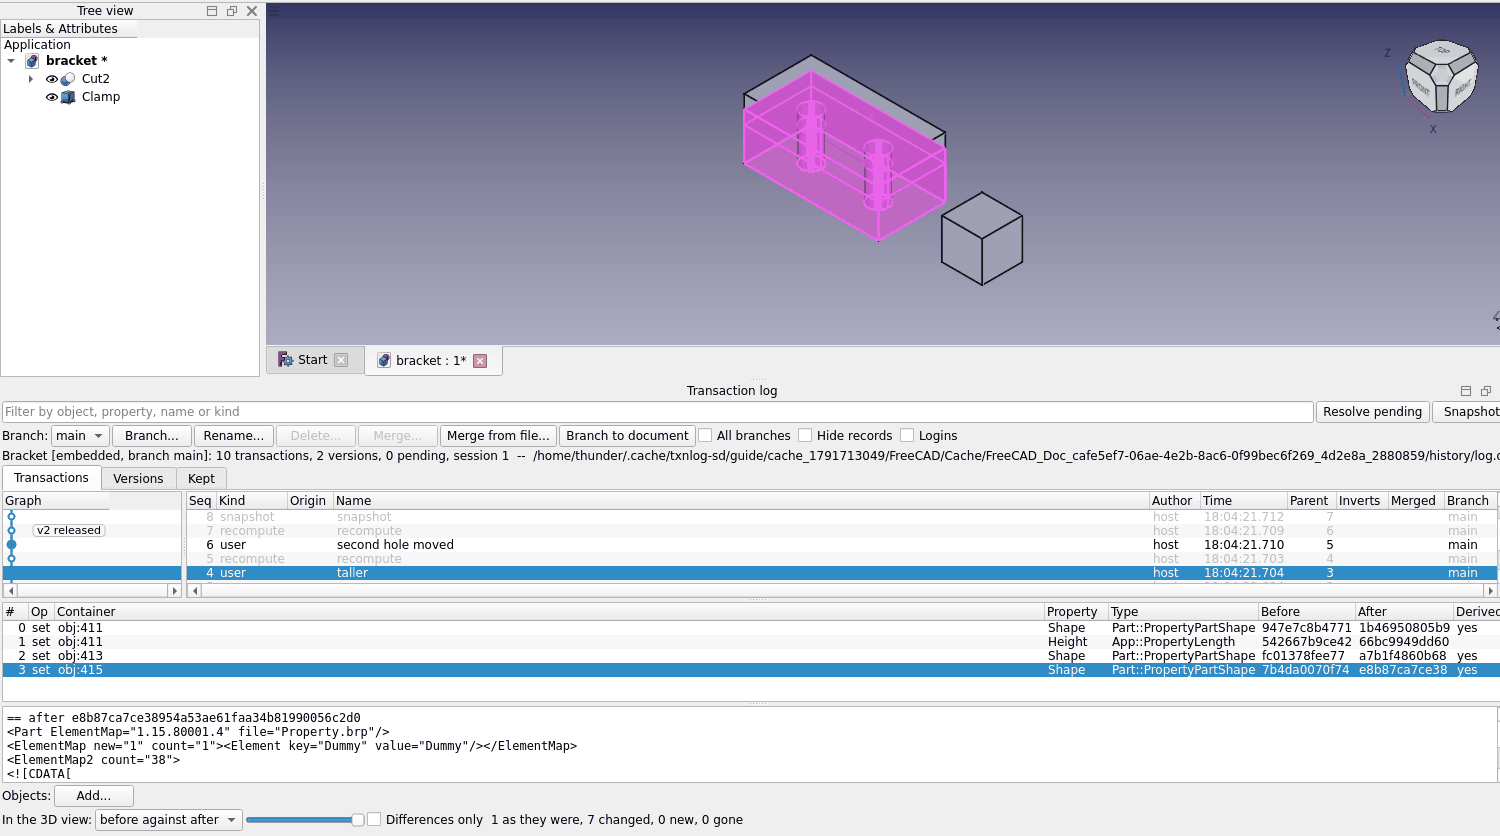
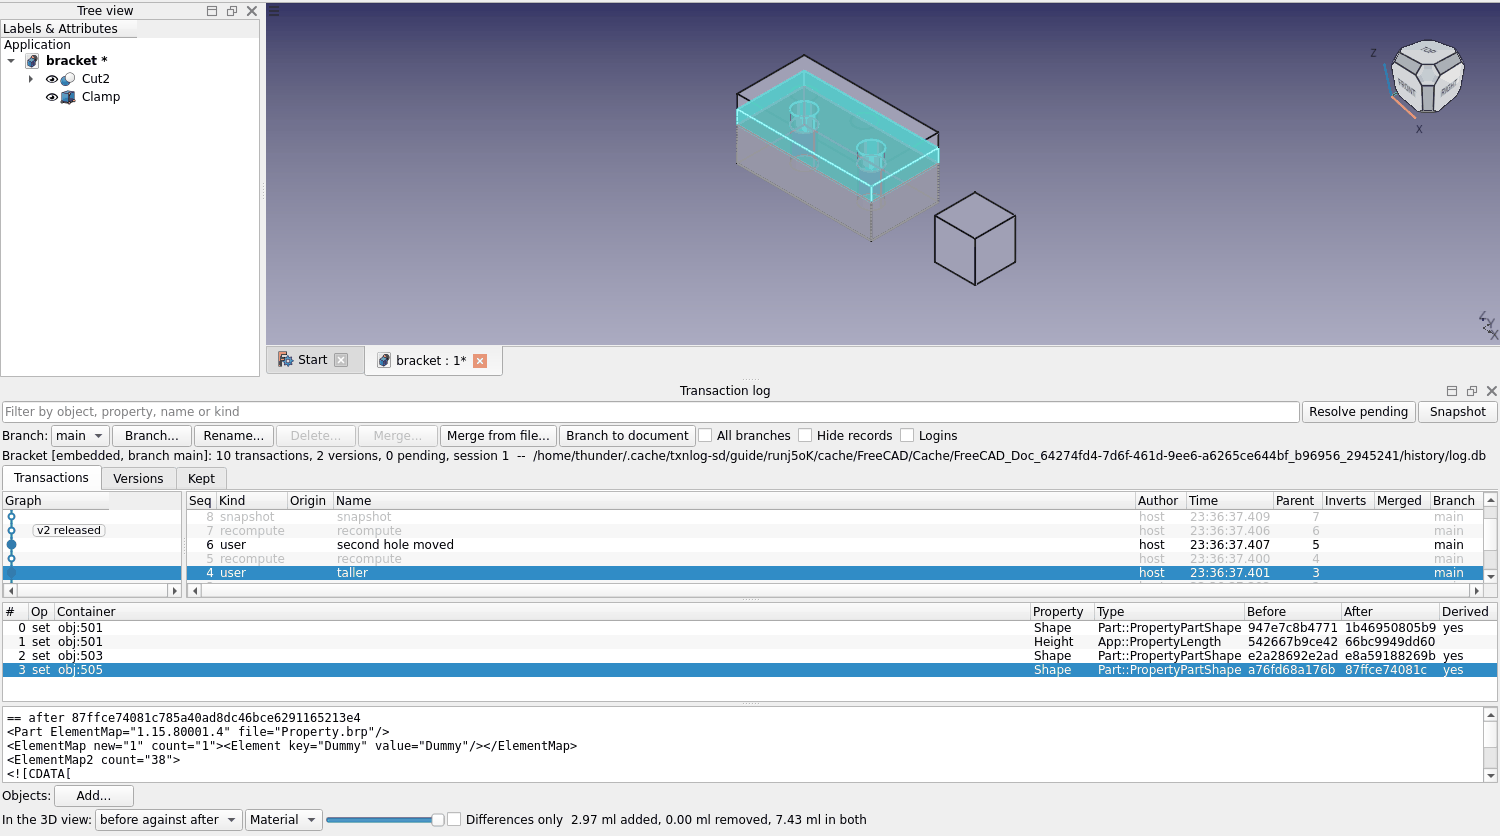
Docs: the guide says Material and Faces, and its pictures are taken again
The section on seeing a change in the 3D view is of the two ways a shape is
shown, with one more picture, the same change by its faces; the other
pictures have the bar's second list in them.

Claude-Session: https://claude.ai/code/session_01JMUBeWJysnNX6WPy6aJkex

diff --git a/scripts/transaction-log-guide-shots.py b/scripts/transaction-log-guide-shots.py
@@ -272,6 +272,12 @@ def run():
         part(bar, "diffPosition").setValue(0)
         shot("06-slider-at-before", mdi, bar)
         part(bar, "diffPosition").setValue(100)
+        # The same by its faces
+        part(bar, "diffMode").setCurrentIndex(1)
+        settle()
+        shot("06-by-the-faces", mdi, bar)
+        part(bar, "diffMode").setCurrentIndex(0)
+        settle()
 
         # 07: the whole of a row, and the objects chosen
         ops.clearSelection()

diff --git a/docs/TransactionLogGuide.md b/docs/TransactionLogGuide.md
@@ -158,27 +158,60 @@ Select a row, then the operation that set an object's `Shape`:
 
 ![An operation that is a shape, shown over its object](images/transaction-log/05-op-in-the-view.png)
 
-The value after is drawn over the object:
+The two values are drawn over the object by their **material**:
 
-- faces that **changed** are tinted;
-- faces that are **new** and faces that are **gone** have colours of their
-  own (the colours of PartDesign's add, subtract and dress-up previews);
-- faces that are **as they were** are a faint grey.
+- the solid that was **added** and the solid that was **removed**, each in
+  a colour of its own (the colours of PartDesign's add and subtract
+  previews);
+- what **both** have, a faint grey.
+
+Here the bracket was made taller: what was added is the slab on top, and
+the status says how much.
 
 The line "In the 3D view:" has:
 
 | Control | What it does |
 |---|---|
-| The list (`before against after`) | Which two values are compared; `nothing` turns the overlay off. |
+| The first list (`before against after`) | Which two values are compared; `nothing` turns the overlay off. |
+| The second list (`Material` / `Faces`) | How a shape is shown: see below. |
 | The slider | From the first of the two (left) to the second (right): which one is drawn solid and which as a ghost. |
-| **Differences only** | Leaves out the faces that are as they were. |
-| The text | The count: `1 as they were, 7 changed, 0 new, 0 gone`. |
+| **Differences only** | Leaves out what did not change. |
+| The text | What was found: `2.97 ml added, 0.00 ml removed, 7.43 ml in both`, in the units of your preferences. |
 
 ![The slider at the left: the value before](images/transaction-log/06-slider-at-before.png)
 
-A face counts as changed as a whole: a box made taller has all four of its
-side faces changed. (Showing only the material added and removed is being
-built: sec 32.14.)
+### Material or faces
+
+**Material** answers *where* the object changed. The two solids are
+taken apart into what only the first has, what only the second has, and
+what they share, and the volumes are said. It needs two solids, and it
+works them out by a boolean operation of the two.
+
+On a heavy solid that takes time -- seconds at a thousand faces, the
+better part of a minute at two thousand -- and you are not made to wait
+for it: the faces are shown at once, the text says `working out the
+material; the faces meanwhile: ...`, and the material takes their place
+when it is there. Move on to another row and the work is dropped. Going
+back to one of the last few pairs looked at costs nothing.
+
+**Faces** answers *which faces* changed:
+
+![The same change by its faces](images/transaction-log/06-by-the-faces.png)
+
+- faces that **changed** are tinted;
+- faces that are **new** and faces that are **gone** have the colours of
+  added and removed;
+- faces that are **as they were** are a faint grey.
+
+The text is then a count: `1 as they were, 7 changed, 0 new, 0 gone`. A
+face counts as changed as a whole -- a box made taller has all four of its
+sides changed -- which is why Material is what is shown first. Use Faces
+when it is the faces you care about (what a reference to one of them will
+find), and for anything that is not a solid.
+
+Where one of the two values is no solid -- a shell, a sketch's face, or
+an object that did not exist yet -- its faces are shown whichever is
+asked for, and the text says so: `not two solids, by the faces: ...`.
 
 ### A whole row, a version or a merge: choose the objects
 
@@ -400,6 +433,8 @@ open it.
 | see what a step changed | Transactions: select the row, read its operations |
 | see the old and new value of a property | select the operation; the value pane |
 | see how an object's shape changed in a step | select the row, then its `Shape` operation |
+| see how much material a step added or removed | the same, with **Material** in the bar's second list; the status says the volumes |
+| see which faces a step changed | the same, with **Faces** |
 | follow one object through the history | add it to "Objects:", then step through the rows |
 | compare the document now with an earlier state | Versions: select the version; "Changed since" |
 | undo one step that is not the last | right-click the row, **Undo row N** |
@@ -425,6 +460,7 @@ Everything the panel does is a method of the document.
 | a shape the log holds | `Part.getTransactionShape(doc, ref, obj.ID)` |
 | what became of each face | `before.diff(after)` |
 | the material added and removed | `before.diffMaterial(after)` |
+| the overlay in the 3D view | `obj.ViewObject.showValueDiff("Shape", refBefore, refAfter, mode="material")`, `getValueDiff()`, `hideValueDiff()` |
 | Snapshot, name a version | `doc.snapshotTransactionLog()`, `doc.nameTransactionVersion(num, name)` |
 | the versions | `doc.getTransactionVersions()` |
 | Changed since | `doc.compareTransactionStates(seq, 0)` |
